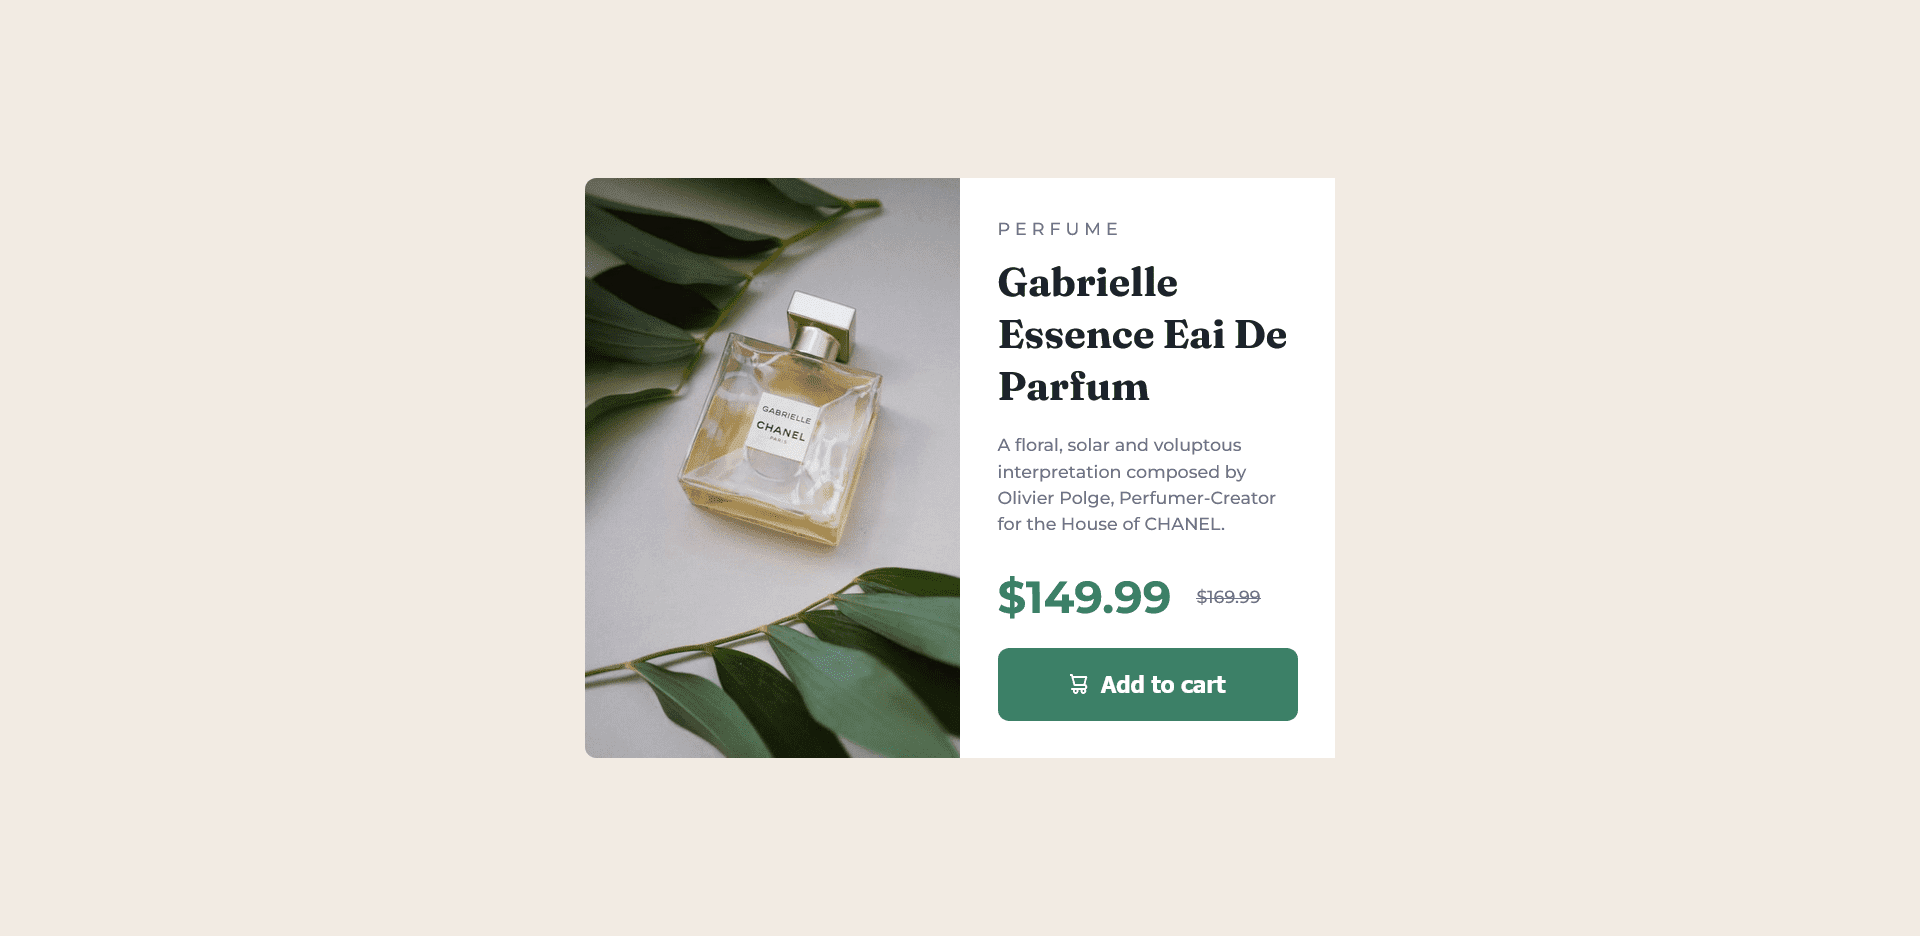
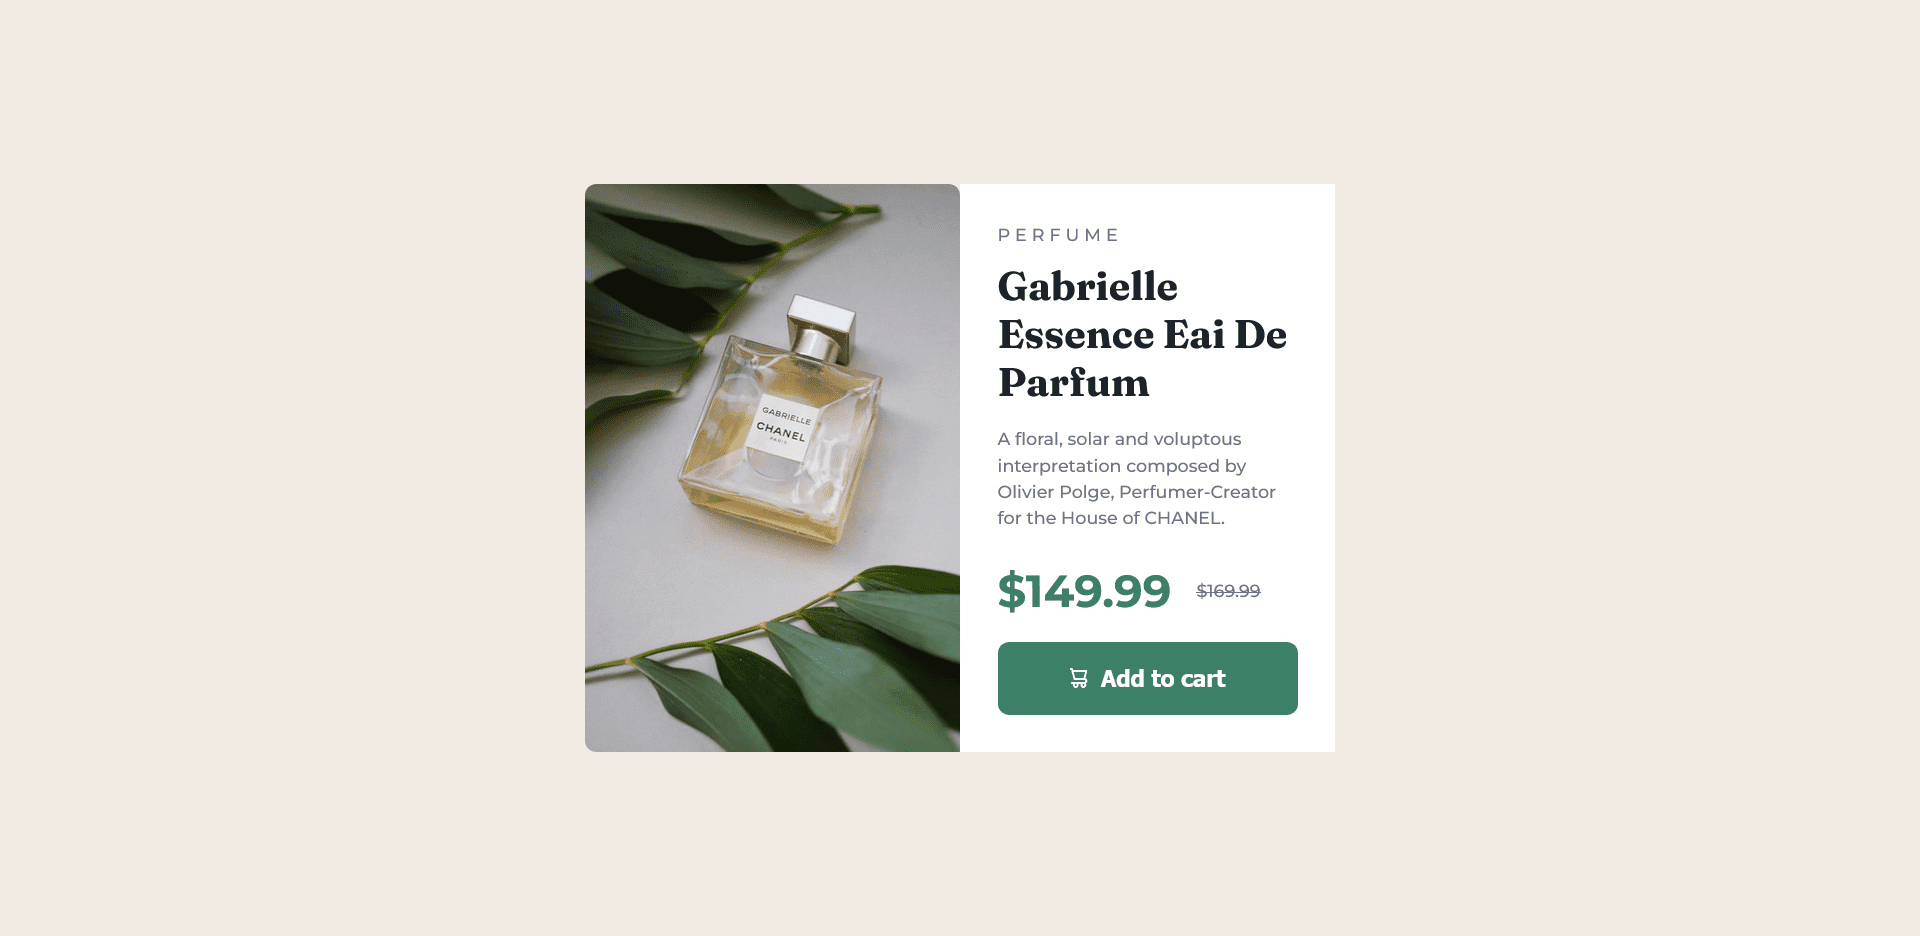
Use picture tag in responsive image

diff --git a/styles.css b/styles.css
@@ -1,11 +1,11 @@
 :root {
     --color-brand-400: hsl(158, 36%, 37%);
-    --ff-serif: "Montserrat", sans-serif;
-    --ff-sans: "Fraunces", serif;
-    
+    --ff-serif: 'Montserrat', sans-serif;
+    --ff-sans: 'Fraunces', serif;
+
     --color-gray-0: hsl(0, 0%, 100%);
     --color-gray-300: hsl(30, 38%, 92%);
-    --color-gray-400:hsl(228, 12%, 48%);
+    --color-gray-400: hsl(228, 12%, 48%);
     --color-gray-700: hsl(212, 21%, 14%);
 
     --border-radius-md: 9px;
@@ -32,7 +32,7 @@ body {
     line-height: 1.5;
 }
 
-img {
+img{
     max-width: 100%;
     max-height: 100%;
 }
@@ -43,12 +43,9 @@ img {
     margin: 0 auto;
 }
 
-
 .product-card {
     margin-block: 2rem;
 }
-
-
 
 .btn {
     background-color: var(--color-brand-400);
@@ -73,16 +70,13 @@ img {
     padding-left: 1rem;
 }
 
-.prod-mob-img {
+.prod__img>img {
     border-top-left-radius: var(--border-radius-md);
     border-top-right-radius: var(--border-radius-md);
-    margin: 0;
     display: block;
+    height: 100%;
 }
 
-.prod-desk-img {
-    display: none;
-}
 .prod-content {
     background-color: var(--color-gray-0);
     padding: 3rem;
@@ -92,14 +86,14 @@ img {
     text-transform: uppercase;
     letter-spacing: 4px;
     font-weight: 500;
-    margin-bottom: .825em;
+    margin-bottom: 0.825em;
 }
 
 .prod-title {
     font-weight: 700;
     font-size: 3.2rem;
     color: var(--color-gray-700);
-    margin-bottom: .5em;
+    margin-bottom: 0.5em;
     font-family: var(--ff-sans);
     line-height: 1.3;
 }
@@ -111,7 +105,7 @@ img {
 
 .prod-price {
     display: flex;
-    align-items:center;
+    align-items: center;
     gap: 2rem;
     margin-bottom: 1em;
 }
@@ -127,33 +121,29 @@ img {
     text-decoration: line-through;
 }
 
-
-
 @media (min-width: 640px) {
     .section-card {
-    display: flex;
-    align-items: center;
-    justify-content: center;
-    height: 100dvh;
-}
-
-    .prod-mob-img {
-        display: none;
+        display: flex;
+        align-items: center;
+        justify-content: center;
+        height: 100dvh;
     }
 
-    .prod-desk-img {
-        display: block;
+    .prod__img>img{
         border-top-left-radius: var(--border-radius-md);
-    border-bottom-left-radius: var(--border-radius-md);
+        border-bottom-left-radius: var(--border-radius-md);
     }
 
-    
-.product-card {
-    display: flex;
-    max-width: 60rem;
-}
+    .product-card {
+        display: flex;
+        max-width: 60rem;
+    }
 
-.product-card > * {
-    width: 50%;
-}
+    .product-card > * {
+        width: 50%;
+    }
+
+    .prod-title {
+        line-height: 1.2;
+    }
 }

diff --git a/index.html b/index.html
@@ -21,8 +21,10 @@
   <main class="container">
     <section class="section-card">
       <section class="product-card">
-        <img src="./images//image-product-mobile.jpg" class="prod-mob-img" alt="perfume" />
-        <img src="./images/image-product-desktop.jpg" alt="perfume" class="prod-desk-img" />
+        <picture class="prod__img">
+          <source media="(min-width: 640px)" srcset="./images/image-product-desktop.jpg" />
+          <img src="./images/image-product-mobile.jpg" alt="perfume"/>
+        </picture>
         <div class="prod-content">
           <p class="prod-tag">perfume</p>
           <h2 class="prod-title">Gabrielle Essence Eai De Parfum</h2>
@@ -32,7 +34,7 @@
           <p class="prod-price"><span class="prod-original-price">$149.99</span><span
               class="prod-disc-price">$169.99</span></p>
           <button class="btn">
-            <img src="./images/icon-cart.svg" />
+            <img src="./images/icon-cart.svg" alt="cart icon" />
             <span>Add to cart</span>
           </button>
         </div>

diff --git a/README.md b/README.md
@@ -33,8 +33,8 @@ Users should be able to:
 
 ### Links
 
-- Solution URL: [Add solution URL here](https://github.com/Phurba-Sherpa/frontend-mentor--product-preview-component)
-- Live Site URL: [Add live site URL here](https://phurba-sherpa.github.io/frontend-mentor--product-preview-component/)
+- Solution URL: [Code](https://github.com/Phurba-Sherpa/frontend-mentor--product-preview-component)
+- Live Site URL: [Live](https://phurba-sherpa.github.io/frontend-mentor--product-preview-component/)
 
 ## My process
 
@@ -60,6 +60,17 @@ Had small gap between content and image in mobile design, tried settin margin to
   display: block;
 }
 ```
+
+I also learn that we can set different images based on the screen width, using `picture`. Thanks to the [Gautam Sarkar](https://www.frontendmentor.io/profile/gautam3333) for valuable concept.
+
+```html
+<picture>
+  <source media="(min-width: 640px)" srcset='desktop-version.jpg" />
+  <img src="mobile-version.jpg" alt = "perfume"/>
+</picture>
+```
+So basically idea is that we can define different sources based on media query, and none matches the condition, image selection falls to the `img` that we defined at last. Its a default value just like in switch case. Also remember `sources` are optional but `img` is mandatory.
+
 ### Continued development
 
 It's been about 6 months since I started focusing on css skill. In the upcomming days my focus remaings in following topics:
